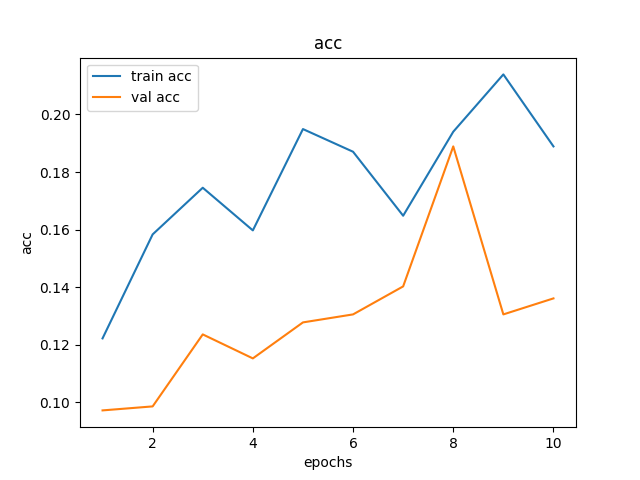
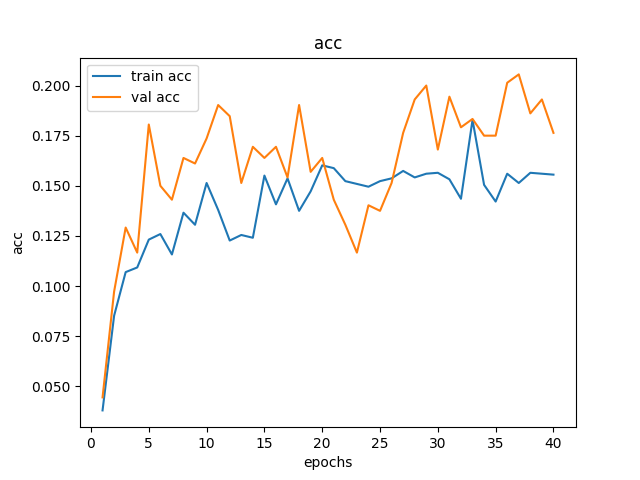
add results

diff --git a/train.py b/train.py
@@ -86,12 +86,12 @@ def train(model_name: str,
         learning['val']['loss'].append(np.mean(val_loss))
         learning['val']['acc'].append(np.mean(val_acc))
 
+        print(f"VAL   -> loss: {learning['val']['loss'][-1]: .2f} \tacc: {learning['val']['acc'][-1]: .2f}")
+
         # save weigth only if it's the best validation loss
         if learning['val']['loss'][-1] == min(learning['val']['loss']):
             print("save weigth")
             torch.save(model.state_dict(), os.path.join(logging_path, 'checkpoint.pt'))
-
-        print(f"VAL   -> loss: {learning['val']['loss'][-1]: .2f} \tacc: {learning['val']['acc'][-1]: .2f}")
     
     save_logs(logpath=logging_path, learning=learning)
 
@@ -99,6 +99,6 @@ def train(model_name: str,
 
 if __name__ == '__main__':
     # Comment lines
-    train(model_name='GCN', num_epochs=10, learning_rate=0.01)
-    # train(model_name='SGC', num_epochs=10, learning_rate=0.01)
-    train(model_name='GIN', num_epochs=10, learning_rate=0.01)
+    train(model_name='GCN', num_epochs=40, learning_rate=0.001)
+    train(model_name='SGC', num_epochs=40, learning_rate=0.001)
+    train(model_name='GIN', num_epochs=40, learning_rate=0.001)
